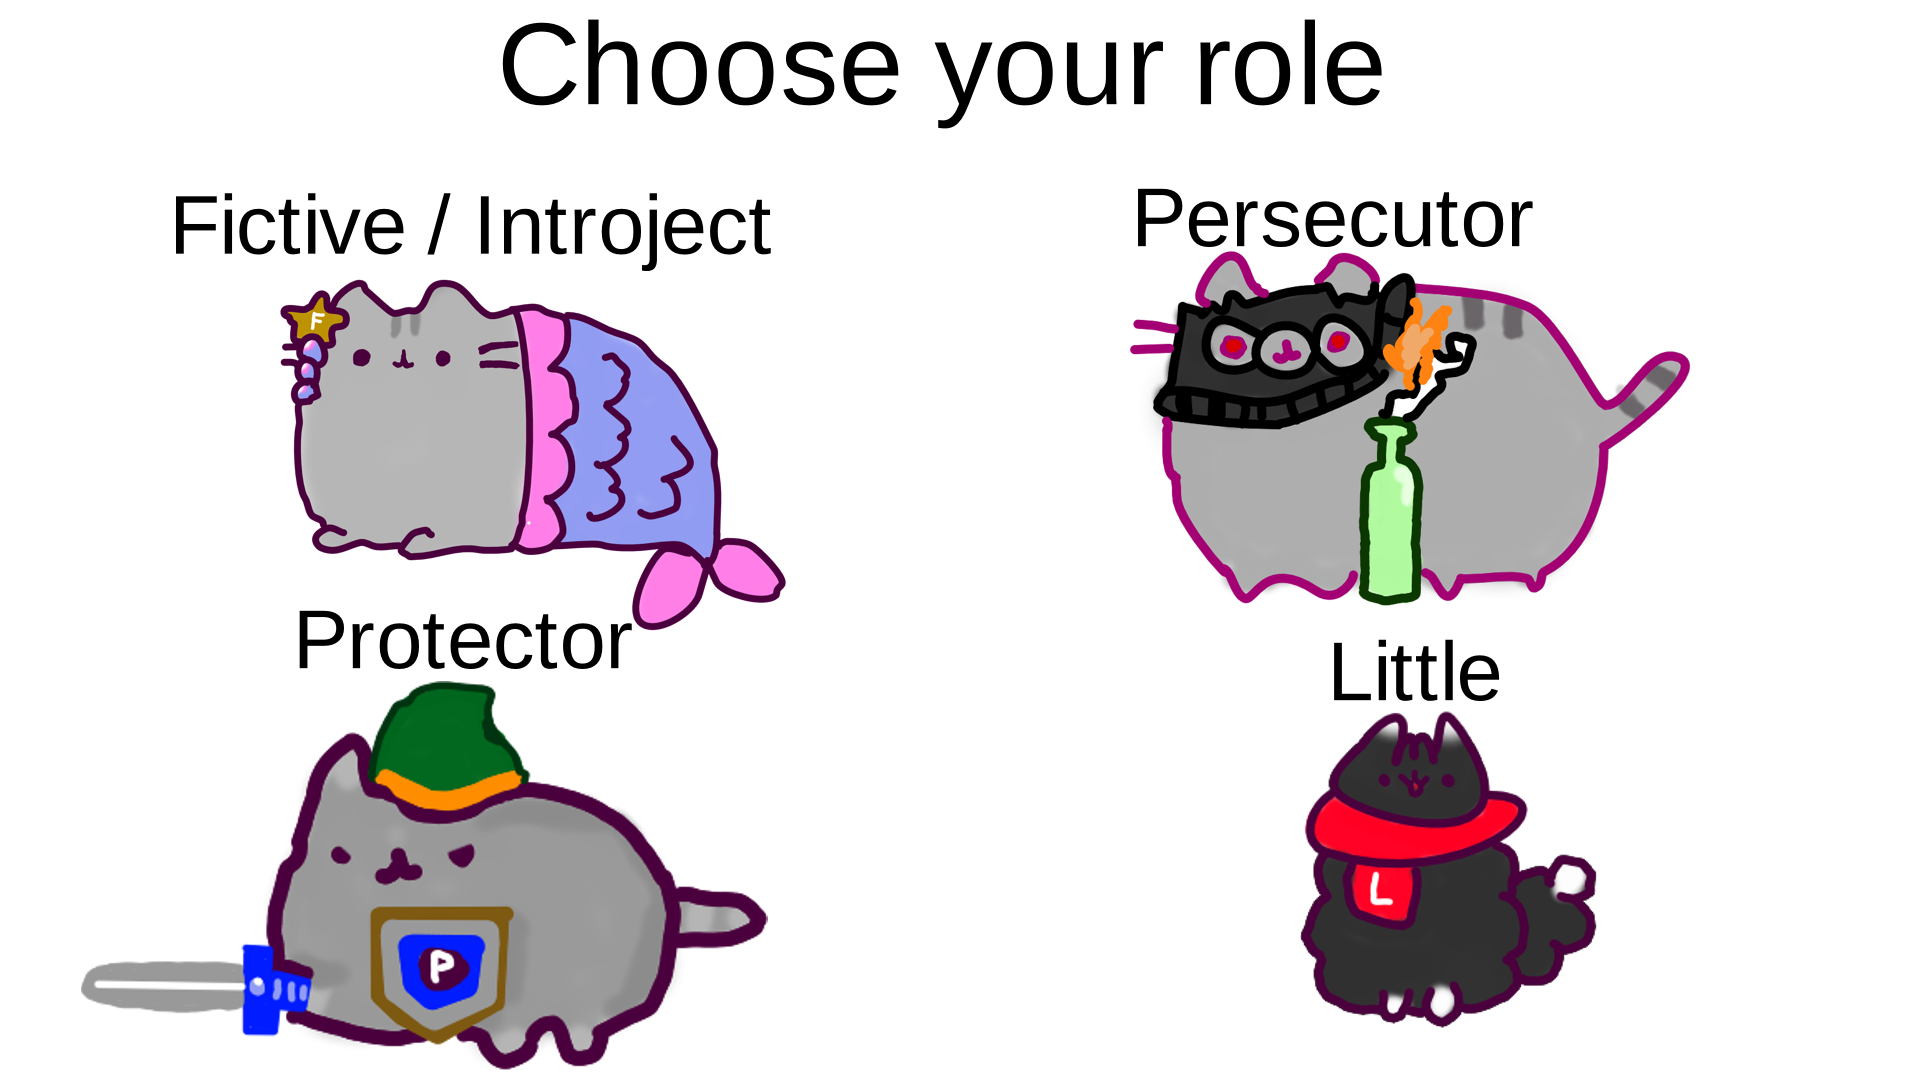
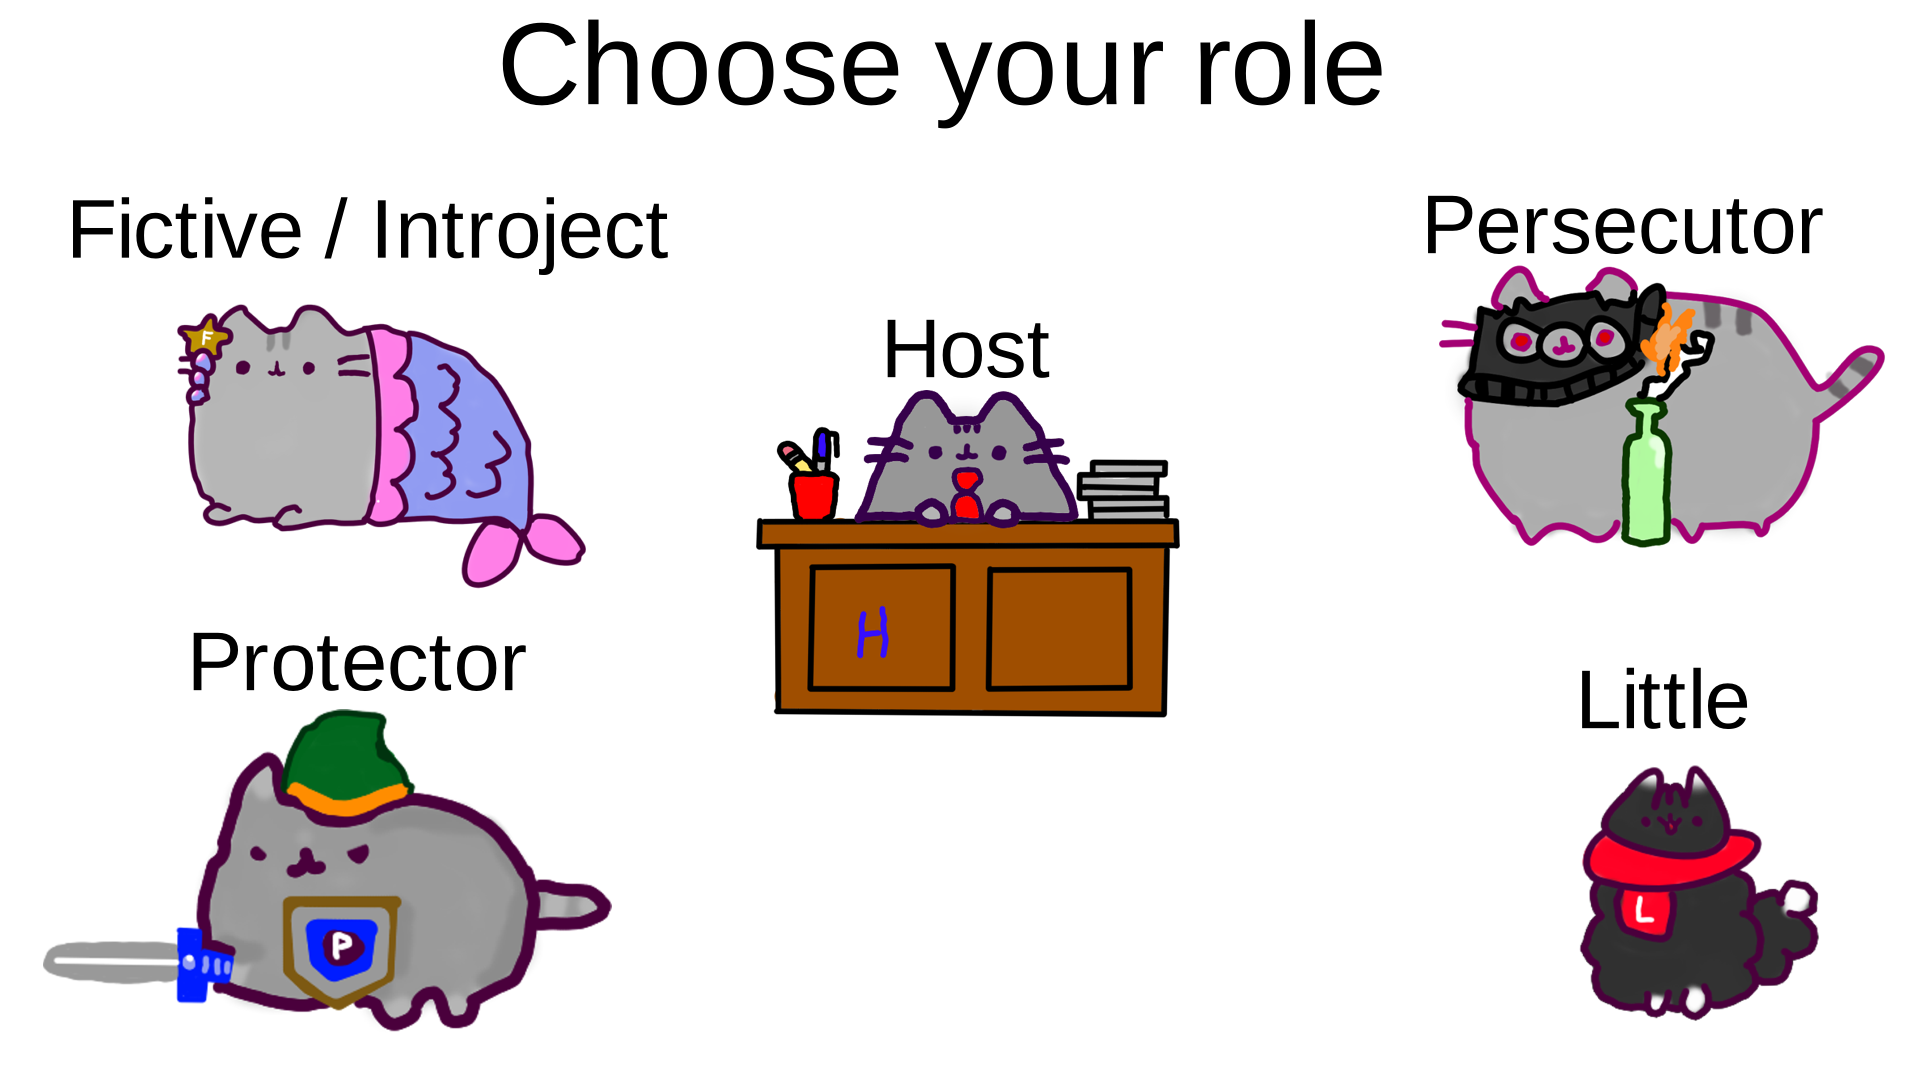
prefinal version

diff --git a/Slides.md b/Slides.md
@@ -1,12 +1,13 @@
 ---
 marp: true
+theme: ampersand
 ---
 
 # Zeta sings the memes of her people
 
 ---
 
-# Disclaimer: All brains are unique
+![bg contain](images/uniqueBrain.png)
 
 ---
 
@@ -18,7 +19,7 @@ marp: true
 
 ---
 
-# The beautiful diverstiy of headmates
+![bg contain](images/everyHeadMateIsUnique.png)
 
 ---
 
@@ -37,10 +38,6 @@ marp: true
 ![bg contain](images/Co-consciousness.png)
 
 ---
-
-# Disclaimer
-
----
 ![bg contain](images/chooseYourRole.png)
 
 <!--
@@ -51,31 +48,114 @@ marp: true
 -->
 ---
 
-# Medical and non-medical systems
+![bg contain](images/DifferentFormsOfPlurality.png)
 
 ---
 
-# Medical system symptoms
+### Medical system symptoms
+
+> A. **Disruption of identity characterized** by two or more distinct
+personality states, which may be described in some cultures
+as an experience of possession. The disruption in identity
+involves marked discontinuity in sense of self and sense of
+agency, accompanied by related alterations in affect,
+behavior, consciousness, memory, perception, cognition,
+and/or sensory-motor functioning. These signs and
+symptoms may be observed by others or reported by the
+individual.
+B. **Amnesia** Recurrent gaps in the recall of everyday events, important
+personal information, and/or traumatic events that are
+inconsistent with ordinary forgetting.
+C. **Distress** The symptoms cause clinically significant distress or
+impairment in social, occupational, or other important areas
+of functioning.
+D. The disturbance is not a normal part of a broadly accepted
+cultural or religious practice.
+Note: In children, the symptoms are not better explained by
+imaginary playmates or other fantasy play.
+...
+
+*DSM 5-TR*
 
 ---
 
 # Memes
 
+![bg contain](images/Memes/poopWithFriends.png)
+
 ---
 
-# Self Depricating memes
+![bg contain](images/Memes/multiplePeople.jpg)
+
+---
+
+### Dating
+
+![bg contain](images/Memes/microdosingPolyamory.png)
+
+---
+
+![bg contain](images/Memes/SystemDating.jpg)
 
 ---
 
 # Amnesia
 
+![bg contain](images/Memes/whataweek.jpg)
+
+---
+
+![bg contain](images/Memes/ToldYouYesterday.png)
+
+---
+
+![bg contain](images/Memes/RecollectionOfEvents.png)
+
+---
+
+<!-- Dissociation -->
+
+![bg contain](images/Memes/image0.jpg)
+
+---
+
+![bg contain](images/Memes/coffeTub.png)
+
 ---
 
 # The spicy alter
 
+![bg contain](images/Memes/Eddie.png)
+
+---
+
+![bg contain](images/Memes/forthebetter.png)
+
+---
+
+![bg contain](images/Memes/cynicalBitchAndHippie.png)
+
 ---
 
 # Littles
+
+![bg contain](images/Memes/bareMinimum.png)
+
+---
+
+![bg contain](images/Memes/LittlesWannaPlay.png)
+
+---
+
+![bg contain](images/Memes/ChildLabor.png)
+
+---
+
+![bg contain](images/Memes/WhoWantsToFrontAtWork.png)
+
+---
+
+![bg contain](images/Memes/waiter.jpg)
 
 ---
 
@@ -85,8 +165,18 @@ marp: true
 
 # Funnier as a System®
 
---
+![bg contain](images/Memes/funnierasasystem1.jpg)
 
-# Other
+---
+
+![bg contain](images/Memes/thoughtsinabox.png)
+
+---
+
+![bg contain](images/Memes/copyOfPeopleFunnierAsASystem.jpg)
+
+---
+
+![bg contain](images/Memes/dualityOfBeingASystem.jpg)
 
 ---
